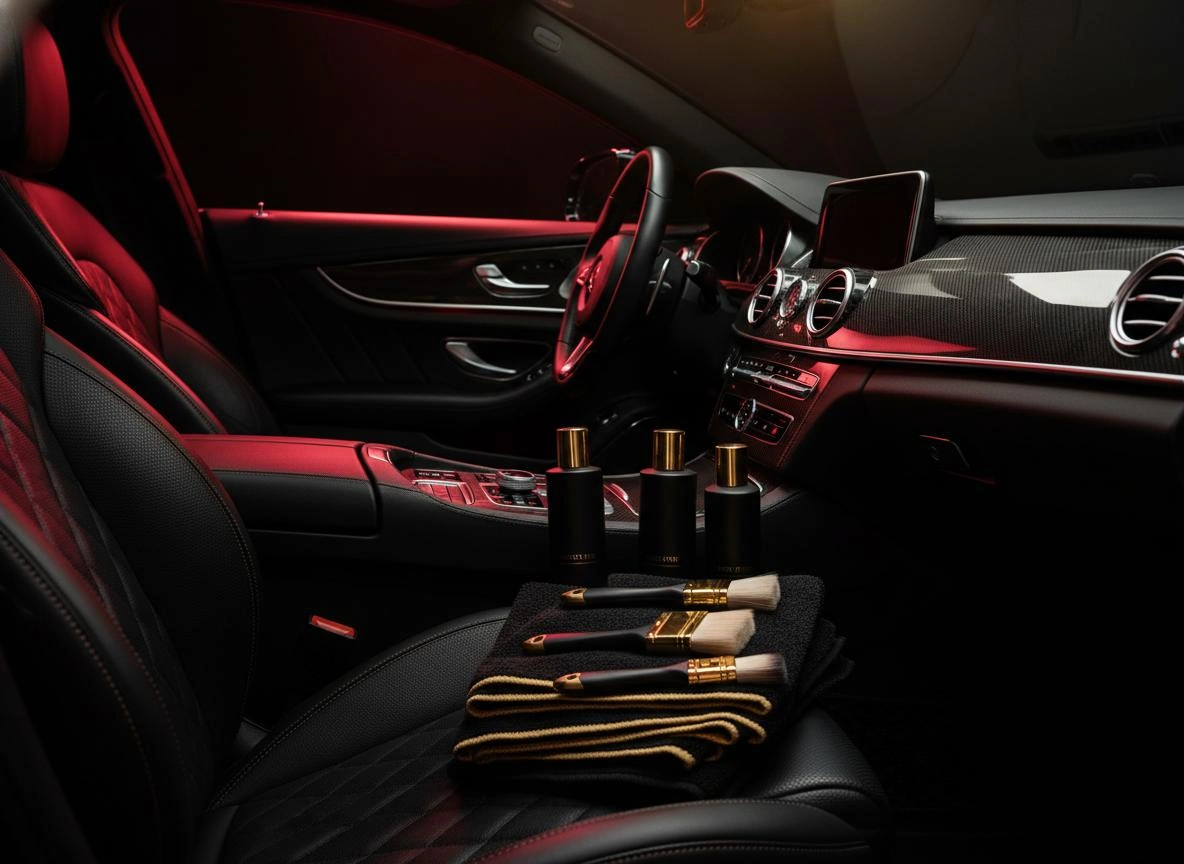
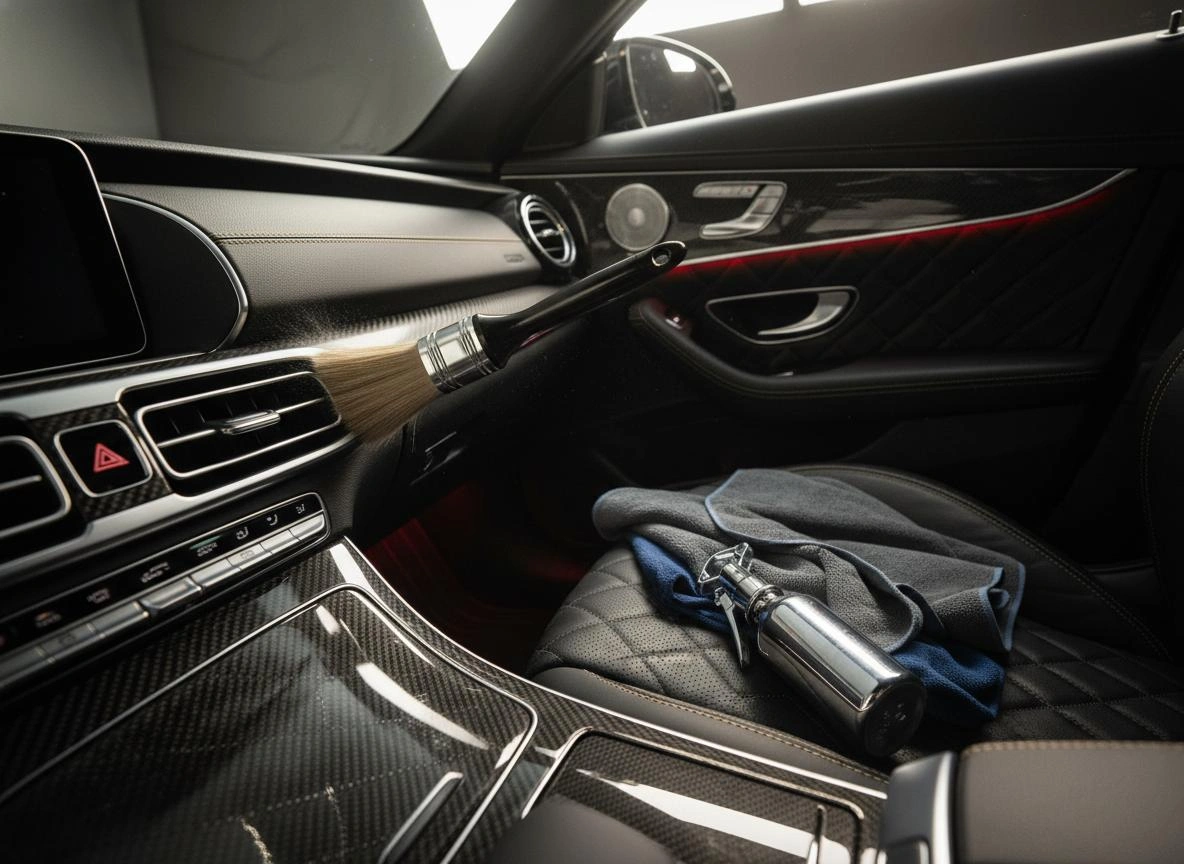
feat: update all 7 service images with new uploaded assets

diff --git a/components/sections/ServiceCards.tsx b/components/sections/ServiceCards.tsx
@@ -34,7 +34,7 @@ const services = [
     description:
       "Advanced chemical polymer solution that bonds to your vehicle's paint. Provides ultra-high gloss, chemical resistance, and superior hydrophobicity.",
     tags: 'Ceramic Coating · 9H Hardness · High Gloss',
-    image: '/service-images/3_ceramic_coating_ppf.webp',
+    image: '/service-images/3_ceramic_coating.webp',
     imageAlt: 'Ceramic coating service at CarDee',
     modalService: 'Ceramic Coating',
   },
@@ -45,7 +45,7 @@ const services = [
     description:
       "A clear, self-healing film that protects your car's paint from stone chips, scratches, and road debris. The ultimate shield for your vehicle.",
     tags: 'PPF · Self-Healing · Scratch Protection',
-    image: '/service-images/3_ceramic_coating_ppf.webp',
+    image: '/service-images/4_paint_protection_film.webp',
     imageAlt: 'Paint Protection Film (PPF) at CarDee',
     modalService: 'Paint Protection Film (PPF)',
   },
@@ -56,7 +56,7 @@ const services = [
     description:
       "A high-quality protective barrier applied to your car's paint surface — shields against UV rays, water spots, and minor abrasions for long-lasting gloss.",
     tags: 'Paint Protection · Paint Shield · UV Protection',
-    image: '/service-images/4_teflon_paint_protection.webp',
+    image: '/service-images/5_paint_protection.webp',
     imageAlt: 'Paint protection service at CarDee',
     modalService: 'Paint Protection',
   },
@@ -67,7 +67,7 @@ const services = [
     description:
       'Accident repair, dent removal, full-body repainting, buffing, and paint restoration — we bring your car back to its original factory color and condition.',
     tags: 'Denting · Repainting · Restoration',
-    image: '/service-images/5_denting_painting_restoration.webp',
+    image: '/service-images/6_denting_repainting.webp',
     imageAlt: 'Denting and repainting at CarDee',
     modalService: 'Denting & Repainting',
   },
@@ -78,7 +78,7 @@ const services = [
     description:
       'A thorough, streak-free car wash using premium shampoos and high-pressure rinse — removing dirt, grime, and road contaminants from every surface.',
     tags: 'Car Wash · Shampoo · Deep Clean',
-    image: '/service-images/6_premium_high_pressure_wash.webp',
+    image: '/service-images/7_premium_high_pressure_wash.webp',
     imageAlt: 'Premium car wash at CarDee',
     modalService: 'Exterior Wash & Polish',
   },
